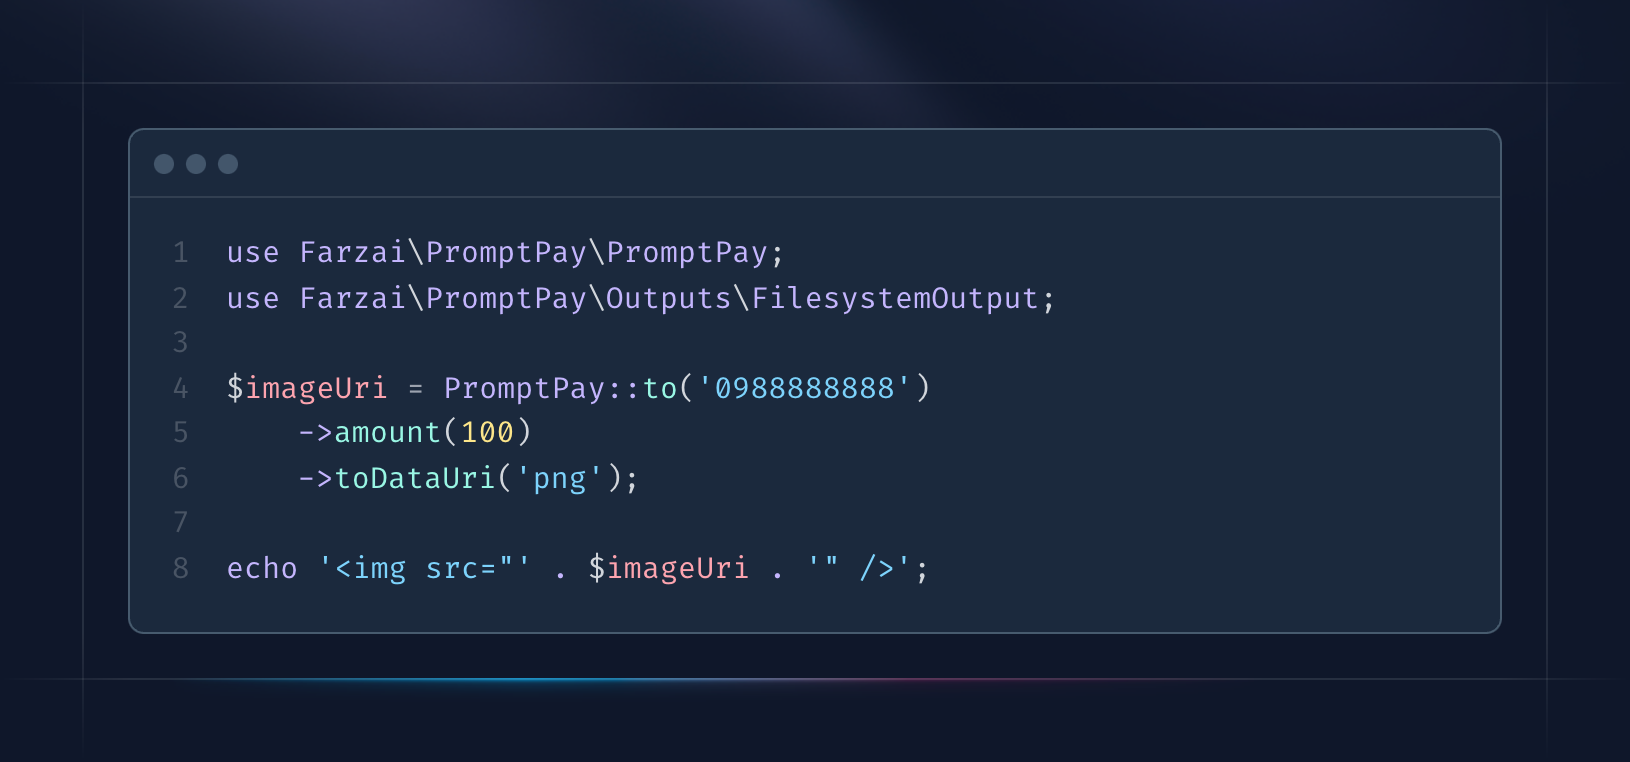
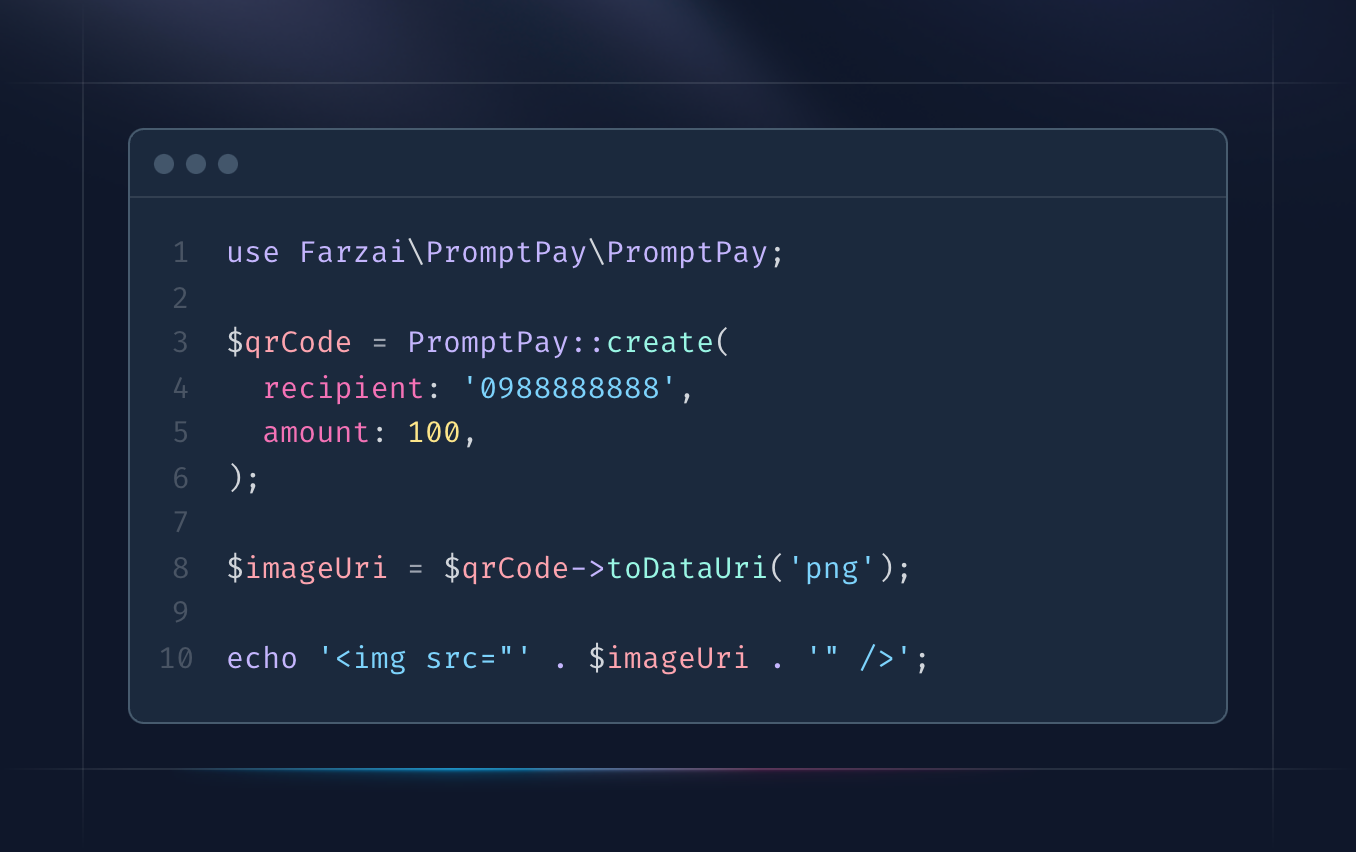
Refactor PromptPay class to improve code readability and maintainability

diff --git a/src/PromptPay.php b/src/PromptPay.php
@@ -15,7 +15,7 @@ class PromptPay
      */
     public static function create(string $recipient, $amount = null): QrCode
     {
-        return static::to($recipient)->amount($amount)->build();
+        return (new self($recipient, $amount))->build();
     }
 
     /**

diff --git a/README.md b/README.md
@@ -74,14 +74,11 @@ For example, to generate a QR code for receiving 100 THB from the phone number 0
 
 ```php
 use Farzai\PromptPay\PromptPay;
-use Farzai\PromptPay\Outputs\FilesystemOutput;
 
-// Generate a QR code for receiving 100 THB from the phone number 0988888888
-$imageUri = PromptPay::to('0988888888')
-	->amount(100)
-	->toDataUri('png');
+$qrCode = PromptPay::create('0988888888', 100);
 
-// Display the QR code
+$imageUri = $qrCode->toDataUri('png');
+
 echo '<img src="' . $imageUri . '" />';
 ```
 
@@ -89,11 +86,10 @@ Or you can save the QR code to a file:
 
 ```php
 use Farzai\PromptPay\PromptPay;
-use Farzai\PromptPay\Outputs\FilesystemOutput;
 
-$imagePath = PromptPay::to('0988888888')
-	->amount(100)
-	->toFile('qr-code.png');
+$qrCode = PromptPay::create('0988888888', 100):
+
+$imagePath = $qrCode->toFile('qr-code.png');
 
 echo 'QR code saved to ' . $imagePath;
 ```
